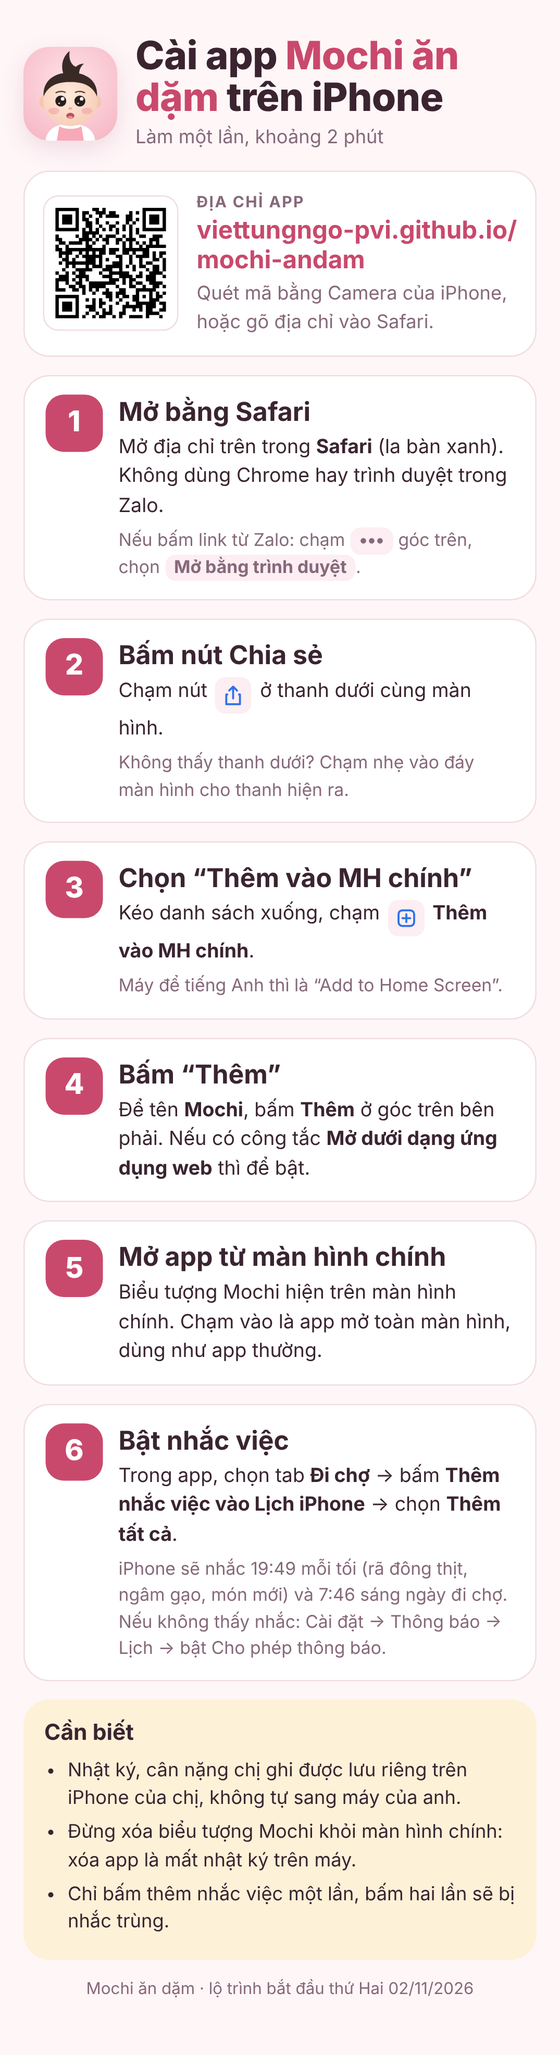
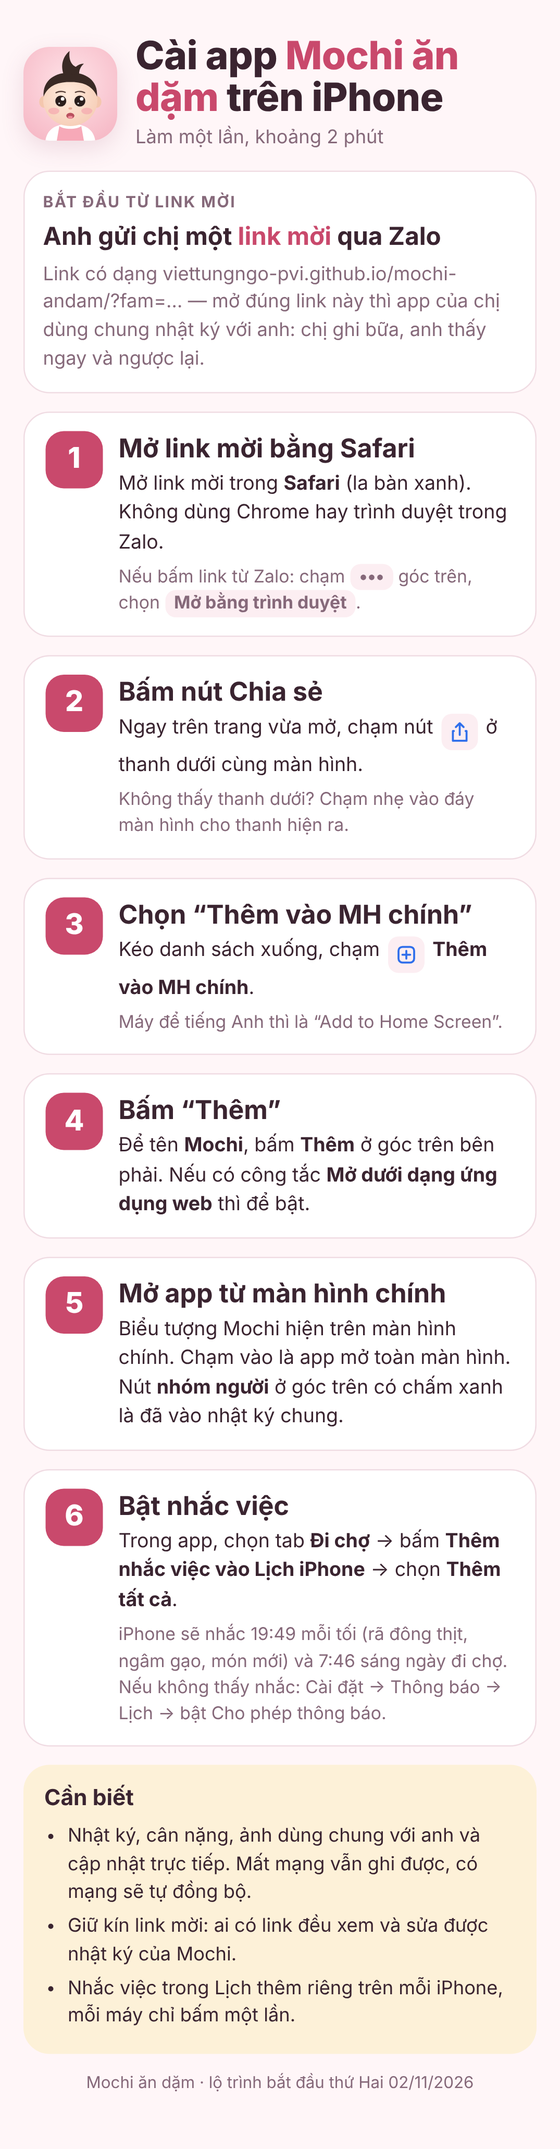
Nhật ký chung giữa hai máy qua Firebase
- Đồng bộ trực tiếp nhật ký, cân nặng, món đã thử, ảnh qua Firestore
- Mã gia đình trong link mời (?fam=), đăng nhập ẩn danh
- Thông báo lỗi rõ ràng khi Firebase chưa cấu hình đủ
- Cập nhật hướng dẫn cài app: mở từ link mời

Claude-Session: https://claude.ai/code/session_01LbCh52MJTEpZHb3o8UUKqT

diff --git a/index.html b/index.html
@@ -248,6 +248,15 @@ details.g .gb{padding:0 16px 16px;font-size:14.5px}
 .toast.show{opacity:1;transform:translate(-50%,0)}
 .sync{font-size:11.5px;color:var(--muted);text-align:center;margin-top:4px}
 
+/* Đồng bộ gia đình */
+.syncbtn{position:relative;width:42px;height:42px;border-radius:14px}
+.syncbtn svg{width:22px;height:22px}
+.sdot{position:absolute;top:6px;right:6px;width:9px;height:9px;border-radius:9px;background:var(--muted);border:2px solid var(--surface)}
+.sdot[data-on="1"]{background:var(--matcha)}
+.invite{display:flex;gap:8px}
+.invite input{flex:1;min-width:0;border:1px solid var(--line);background:var(--surface-2);border-radius:12px;padding:10px 12px;font-size:13px}
+.steps{margin:0;padding-left:20px;font-size:14px}.steps li{margin:5px 0}
+
 /* Tinh chỉnh v2 */
 .hero{background:linear-gradient(165deg,color-mix(in srgb,var(--wc,var(--mochi)) 16%,var(--surface)) 0%,var(--surface) 62%)}
 .hero h3 .of{font-size:15px;font-weight:700;color:var(--muted);letter-spacing:0;margin-left:6px}
@@ -355,10 +364,11 @@ details.g .gb{padding:0 16px 16px;font-size:14.5px}
   <ellipse cx="256" cy="376" rx="22" ry="16" fill="#B9505E"/>
   <ellipse cx="256" cy="384" rx="13" ry="7" fill="#F08C9A"/>
 </svg></button>
-      <div style="min-width:0">
+      <div style="min-width:0;flex:1">
         <h1>Mochi <span>ăn dặm</span></h1>
         <div class="age" id="age"></div>
       </div>
+      <button class="iconbtn syncbtn" id="syncBtn" aria-label="Nhật ký chung của gia đình" hidden><svg viewBox="0 0 24 24"><circle cx="8" cy="9" r="3"/><circle cx="16.5" cy="10" r="2.5"/><path d="M3 19c.6-3 2.7-4.5 5-4.5s4.4 1.5 5 4.5M13.5 18.5c.4-2 1.6-3.2 3-3.2s2.6 1.2 3 3.2"/></svg><span class="sdot" id="syncDot" data-on="0"></span></button>
     </div>
   </header>
   <main id="main" class="view"></main>
@@ -386,6 +396,27 @@ const START = new Date(2026,10,2);  // ngày 1 = tròn 6 tháng
 const PLAN_DAYS = 31;
 const ICS_URL = "https://viettungngo-pvi.github.io/mochi-andam/reminders.ics";
 const IN_CLAUDE = !!(window.claude&&window.claude.use);
+// Đồng bộ gia đình cho bản GitHub Pages (Firebase Firestore). Điền cấu hình từ Firebase console.
+const FIREBASE_CONFIG = {
+  apiKey: "AIzaSyA9KyGO4q5qzkl4R8ijx4J4a3Hd6Sc4eI8",
+  authDomain: "mochi-an-dam.firebaseapp.com",
+  projectId: "mochi-an-dam",
+  storageBucket: "mochi-an-dam.firebasestorage.app",
+  messagingSenderId: "1010543361820",
+  appId: "1:1010543361820:web:275d74ff5605971a3a84d9"
+};
+let FB_ERR = "";
+function fbErrText(e){const c=(e&&e.code)||"";
+  if(c.includes("operation-not-allowed")||c.includes("admin-restricted")) return "Firebase chưa bật đăng nhập Anonymous (Security → Authentication → Sign-in method).";
+  if(c.includes("permission-denied")) return "Luật bảo mật Firestore chưa đúng (Firestore → Rules).";
+  if(c.includes("not-found")||c.includes("failed-precondition")) return "Chưa tạo Firestore Database cho project.";
+  if(c.includes("network")||c.includes("unavailable")) return "Không có mạng, nhật ký vẫn lưu trên máy và sẽ đồng bộ khi có mạng.";
+  return "Lỗi đồng bộ: "+(c||String(e&&e.message||e));}
+const FB_SDK = "https://www.gstatic.com/firebasejs/10.14.1/";
+function famFromUrl(){try{const q=new URLSearchParams(location.search).get("fam");return q&&/^[A-Za-z0-9]{20,64}$/.test(q)?q:null}catch(e){return null}}
+function getFam(){const u=famFromUrl();if(u){try{localStorage.setItem("mochi-fam",u)}catch(e){}return u}try{return localStorage.getItem("mochi-fam")}catch(e){return null}}
+function newFamCode(){const a="ABCDEFGHJKLMNPQRSTUVWXYZabcdefghijkmnopqrstuvwxyz23456789";const r=new Uint32Array(24);crypto.getRandomValues(r);return Array.from(r,x=>a[x%a.length]).join("")}
+function inviteLink(fam){return location.origin+location.pathname+"?fam="+fam}
 const WD = ["CN","T2","T3","T4","T5","T6","T7"];
 
 const FOODS = {
@@ -465,7 +496,7 @@ function blockFor(n){return PLAN.find(b=>n>=b.from&&n<=b.to)}
 const weekColor=w=>`var(--w${Math.min(w,6)})`;
 
 /* ===================== Lưu trữ ===================== */
-const COLS=["meals","weights","shop","weeks","foods","asks","notes"];
+const COLS=["meals","weights","shop","weeks","foods","asks","notes","photos"];
 const CAPS={sample:null,assets:null,downloads:null};
 async function connectCaps(){
   if(!window.claude||!window.claude.use) return;
@@ -474,10 +505,11 @@ async function connectCaps(){
   CAPS.sample=s;CAPS.assets=a;CAPS.downloads=d; render(false);
 }
 const Store={
-  mode:"local", db:null, data:{meals:{},weights:{},shop:{},weeks:{},foods:{},asks:{},notes:{}},
+  mode:"local", db:null, fs:null, fam:null, data:{meals:{},weights:{},shop:{},weeks:{},foods:{},asks:{},notes:{},photos:{}},
   load(){try{const s=localStorage.getItem("mochi-an-dam-v1");if(s){const o=JSON.parse(s);COLS.forEach(c=>{if(o[c])this.data[c]=o[c]})}}catch(e){}},
   cache(){try{localStorage.setItem("mochi-an-dam-v1",JSON.stringify(this.data))}catch(e){}},
   async connect(){
+    if(!IN_CLAUDE){ return this.connectFb(); }
     try{
       if(!window.claude||!window.claude.use) return;
       const db=await window.claude.use("db"); if(!db) return;
@@ -488,16 +520,46 @@ const Store={
       });
     }catch(e){}
   },
+  async connectFb(){
+    const fam=getFam(); if(!FIREBASE_CONFIG||!fam) return;
+    try{
+      for(const f of ["firebase-app-compat.js","firebase-auth-compat.js","firebase-firestore-compat.js"]){
+        if(f==="firebase-app-compat.js"&&window.firebase) continue;
+        await new Promise((res,rej)=>{const s=document.createElement("script");s.src=FB_SDK+f;s.onload=res;s.onerror=rej;document.head.appendChild(s)});
+      }
+      if(!firebase.apps.length) firebase.initializeApp(FIREBASE_CONFIG);
+      const fs=firebase.firestore();
+      try{await fs.enablePersistence({synchronizeTabs:true})}catch(e){}
+      await firebase.auth().signInAnonymously();
+      this.fs=fs; this.fam=fam; this.mode="fb"; setSync();
+      COLS.filter(c=>c!=="asks").forEach(c=>{
+        fs.collection(`families/${fam}/${c}`).onSnapshot(s=>{const m={};s.forEach(d=>{m[d.id]=d.data()});this.data[c]=m;if(c!=="photos")this.cache();render(false)},
+          e=>{console.warn("fs",c,e&&e.code);FB_ERR=fbErrText(e);setSync(FB_ERR)});
+      });
+    }catch(e){console.warn(e);this.mode="local";FB_ERR=fbErrText(e);setSync(FB_ERR)}
+  },
+  async uploadAll(){
+    if(!this.fs) return 0; let n=0;
+    for(const c of COLS){ if(c==="asks"||c==="photos") continue;
+      for(const [id,v] of Object.entries(this.data[c]||{})){ try{await this.fs.collection(`families/${this.fam}/${c}`).doc(id).set(v);n++}catch(e){} } }
+    return n;
+  },
   async set(c,id,obj){
-    this.data[c]={...this.data[c],[id]:obj}; this.cache(); render(false);
+    this.data[c]={...this.data[c],[id]:obj}; if(c!=="photos")this.cache(); render(false);
     if(this.db){try{await this.db.collection(c).doc(id).set(obj)}catch(e){toast("Chưa đồng bộ được, dữ liệu vẫn lưu trên máy này")}}
+    else if(this.fs){try{await this.fs.collection(`families/${this.fam}/${c}`).doc(id).set(obj)}catch(e){FB_ERR=fbErrText(e);toast(FB_ERR)}}
   },
   async del(c,id){
     const m={...this.data[c]}; delete m[id]; this.data[c]=m; this.cache(); render(false);
     if(this.db){try{await this.db.collection(c).doc(id).delete()}catch(e){}}
+    else if(this.fs){try{await this.fs.collection(`families/${this.fam}/${c}`).doc(id).delete()}catch(e){}}
   }
 };
-function setSync(){document.getElementById("sync").textContent=Store.mode==="db"?"Đã đồng bộ: mở trên máy khác vẫn thấy cùng nhật ký":"Đang lưu trên máy này"}
+function setSync(msg){
+  const el=document.getElementById("sync"); if(!el) return;
+  el.textContent=msg||(Store.mode==="db"?"Đã đồng bộ: mở trên máy khác vẫn thấy cùng nhật ký":Store.mode==="fb"?"Nhật ký chung của gia đình · cập nhật trực tiếp":"Đang lưu trên máy này");
+  const dot=document.getElementById("syncDot"); if(dot) dot.dataset.on=(Store.mode==="local"?"0":"1");
+}
 
 /* ===================== Trạng thái món ===================== */
 function foodStatus(id,ref){
@@ -568,10 +630,17 @@ function toast(t){const el=$("#toast");el.textContent=t;el.classList.add("show")
 const ICON_CHECK='<svg viewBox="0 0 24 24"><path d="M5 12.5l4.5 4.5L19 7.5"/></svg>';
 const ICON_MOON='<svg viewBox="0 0 24 24"><path d="M20 14.5A8 8 0 1 1 9.5 4a6.5 6.5 0 0 0 10.5 10.5z"/></svg>';
 const MOODS={love:"Thích lắm",ok:"Ăn được",refuse:"Từ chối",react:"Có phản ứng"};
-const blobUrl=id=>"/_blob/"+id;
+const blobUrl=id=>{if(String(id).startsWith("fb:")){const p=Store.data.photos[id.slice(3)];return p?p.data:""}return "/_blob/"+id};
 function thumbs(ids,sm){if(!ids||!ids.length)return "";return `<div class="thumbs">${ids.map(id=>`<img class="thumb ${sm?"sm":""}" src="${blobUrl(id)}" alt="Ảnh bữa ăn" data-act="zoom" data-v="${id}" loading="lazy" onerror="this.style.visibility='hidden'">`).join("")}</div>`}
 function zoom(id){const d=document.createElement("div");d.className="lightbox";d.innerHTML=`<img src="${blobUrl(id)}" alt="Ảnh phóng to">`;d.addEventListener("click",()=>d.remove());document.body.appendChild(d)}
 function burst(){const r=$("#logo").getBoundingClientRect();for(let i=0;i<7;i++){const s=document.createElement("span");s.className="burst";s.style.left=(r.left+r.width/2-11+(Math.random()*30-15))+"px";s.style.top=(r.top+r.height/2)+"px";s.style.setProperty("--dx",(Math.random()*120-60)+"px");s.style.animationDelay=(i*0.06)+"s";s.innerHTML='<svg viewBox="0 0 24 24"><path d="M12 21s-7.5-4.6-9.5-9.2C1.2 8.6 3.3 5 6.8 5c2 0 3.5 1.1 5.2 3 1.7-1.9 3.2-3 5.2-3 3.5 0 5.6 3.6 4.3 6.8C19.5 16.4 12 21 12 21z"/></svg>';document.body.appendChild(s);setTimeout(()=>s.remove(),1500)}}
+async function compressToDataUrl(file){
+  const url=URL.createObjectURL(file);
+  try{const img=await new Promise((res,rej)=>{const i=new Image();i.onload=()=>res(i);i.onerror=rej;i.src=url});
+    const max=900,k=Math.min(1,max/Math.max(img.width,img.height));const c=document.createElement("canvas");c.width=Math.round(img.width*k);c.height=Math.round(img.height*k);
+    c.getContext("2d").drawImage(img,0,0,c.width,c.height);return c.toDataURL("image/jpeg",0.72);
+  }finally{URL.revokeObjectURL(url)}
+}
 async function compressImage(file){
   const url=URL.createObjectURL(file);
   try{const img=await new Promise((res,rej)=>{const i=new Image();i.onload=()=>res(i);i.onerror=rej;i.src=url});
@@ -912,6 +981,39 @@ function renderAsk(){
   return h;
 }
 
+/* ---------- Nhật ký chung (Firebase) ---------- */
+function openSync(){
+  sheetState={type:"sync"};
+  const fam=Store.fam||getFam();
+  let body;
+  if(!FIREBASE_CONFIG){
+    body=`<p class="muted" style="margin:0">Tính năng đang được cài đặt. Khi xong, nút này sẽ cho anh chị dùng chung một nhật ký.</p>`;
+  } else if(Store.mode==="fb"){
+    body=`<p style="margin:0"><b style="color:var(--matcha)">Đang dùng nhật ký chung.</b> Ai mở app bằng link mời dưới đây sẽ thấy và ghi cùng một nhật ký, cập nhật trực tiếp.</p>
+      <div class="field"><label for="invIn">Link mời (gửi cho vợ/chồng qua Zalo)</label><div class="invite"><input id="invIn" readonly value="${esc(inviteLink(Store.fam))}"><button class="btn" data-sh="copyinv">Sao chép</button></div></div>
+      <ol class="steps"><li>Mở link bằng <b>Safari</b> trên iPhone.</li><li>Bấm Chia sẻ → <b>Thêm vào MH chính</b> ngay trên trang đó, để app mở ra luôn vào nhật ký chung.</li></ol>
+      <p class="small muted" style="margin:0">Giữ kín link này: ai có link đều xem và sửa được nhật ký của Mochi.</p>
+      <button class="btn soft" data-sh="leave">Rời nhật ký chung trên máy này</button>`;
+  } else if(fam){
+    body=FB_ERR?`<div class="alert"><b>Chưa kết nối được.</b> ${esc(FB_ERR)}</div><button class="btn" data-sh="retry">Thử kết nối lại</button>`:`<p class="muted" style="margin:0">Đang kết nối nhật ký chung… Nếu lâu, kiểm tra mạng rồi mở lại app.</p>`;
+  } else {
+    body=`<p style="margin:0">Dùng chung một nhật ký giữa hai máy: một người ghi bữa, người kia thấy ngay.</p>
+      <ol class="steps"><li>Một người (thường là anh) bấm <b>Tạo nhật ký chung</b>. Dữ liệu đang có trên máy này được chuyển lên.</li><li>Gửi link mời cho người kia, họ mở link bằng Safari rồi thêm vào màn hình chính.</li></ol>
+      <button class="btn pink" data-sh="create">Tạo nhật ký chung</button>
+      <p class="small muted" style="margin:0">Đã có link mời? Mở link đó bằng Safari là xong, không cần bấm nút này.</p>`;
+  }
+  openSheet(`<h4>Nhật ký chung của gia đình</h4>${body}<button class="btn soft" data-sh="close">Đóng</button>`);
+}
+async function createFamily(){
+  const code=newFamCode(); try{localStorage.setItem("mochi-fam",code)}catch(e){}
+  try{history.replaceState(null,"",inviteLink(code))}catch(e){}
+  toast("Đang tạo nhật ký chung…");
+  await Store.connectFb();
+  if(Store.mode!=="fb"){toast(FB_ERR||"Chưa kết nối được, kiểm tra mạng rồi thử lại");openSync();return}
+  const n=await Store.uploadAll(); toast(n?`Đã chuyển ${n} mục lên nhật ký chung`:"Đã tạo nhật ký chung");
+  openSync();
+}
+
 /* ===================== Sheet ghi bữa / cân ===================== */
 let sheetState=null;
 function openSheet(html){$("#sheetIn").innerHTML='<div class="grab"></div>'+html;$("#scrim").hidden=false;$("#sheet").hidden=false;requestAnimationFrame(()=>{$("#scrim").classList.add("show");$("#sheet").classList.add("show")})}
@@ -924,7 +1026,7 @@ function openLog(id,i){
 }
 function photoBlock(){
   const s=sheetState;
-  if(!CAPS.assets) return `<div class="field"><label>Ảnh</label><p class="small muted" style="margin:0">Mở app trong Claude (tài khoản của anh) để đính kèm ảnh bữa ăn hoặc ảnh vết mẩn.</p></div>`;
+  if(!CAPS.assets&&Store.mode!=="fb") return `<div class="field"><label>Ảnh</label><p class="small muted" style="margin:0">Bật nhật ký chung (nút đồng bộ ở góc trên) để đính kèm ảnh bữa ăn hoặc ảnh vết mẩn.</p></div>`;
   return `<div class="field"><label>Ảnh bữa ăn hoặc vết mẩn</label><div class="thumbs" id="photoRow">${s.photos.map(id=>`<img class="thumb" src="${blobUrl(id)}" alt="Ảnh đã đính kèm" data-sh="rmphoto" data-v="${id}" title="Chạm để bỏ ảnh">`).join("")}${s.uploading?`<div class="addphoto">Đang tải…</div>`:""}<label class="addphoto" for="photoIn"><span><svg viewBox="0 0 24 24"><path d="M4 8h3l2-2.5h6L17 8h3v11H4z"/><circle cx="12" cy="13" r="3.5"/></svg><br>Thêm</span></label></div><input type="file" id="photoIn" accept="image/*" hidden>${s.photos.length?`<span class="small muted">Chạm vào ảnh để bỏ ra khỏi bữa này.</span>`:""}</div>`;
 }
 function refreshPhotos(){const el=document.getElementById("photoWrap");if(el)el.innerHTML=photoBlock()}
@@ -949,13 +1051,20 @@ $("#scrim").addEventListener("click",closeSheet);
 $("#sheet").addEventListener("change",async e=>{
   if(e.target.id!=="photoIn"||!e.target.files||!e.target.files[0]||!sheetState) return;
   const s=sheetState, file=e.target.files[0]; s.uploading++; refreshPhotos();
-  try{const blob=await compressImage(file);const r=await CAPS.assets.upload(blob,{type:"image/jpeg"});if(sheetState===s)s.photos.push(r.id)}
+  try{
+    if(CAPS.assets){const blob=await compressImage(file);const r=await CAPS.assets.upload(blob,{type:"image/jpeg"});if(sheetState===s)s.photos.push(r.id)}
+    else{const data=await compressToDataUrl(file);if(data.length>900000)throw {code:"too_large"};const pid="p"+Date.now();await Store.set("photos",pid,{data,ts:Date.now()});if(sheetState===s)s.photos.push("fb:"+pid)}
+  }
   catch(err){toast(err&&err.code==="quota_or_state"?"Hết dung lượng lưu ảnh":"Chưa tải được ảnh, thử lại nhé")}
   finally{s.uploading--; if(sheetState===s) refreshPhotos()}
 });
 $("#sheet").addEventListener("click",e=>{
   const b=e.target.closest("[data-sh]"); if(!b) return; const a=b.dataset.sh, s=sheetState;
   if(a==="close"){closeSheet();return}
+  if(a==="create"){createFamily();return}
+  if(a==="retry"){FB_ERR="";closeSheet();location.reload();return}
+  if(a==="copyinv"){const v=$("#invIn").value;(navigator.clipboard?navigator.clipboard.writeText(v):Promise.reject()).then(()=>toast("Đã sao chép link mời")).catch(()=>{$("#invIn").select();toast("Nhấn giữ để sao chép")});return}
+  if(a==="leave"){try{localStorage.removeItem("mochi-fam")}catch(e){}try{history.replaceState(null,"",location.pathname)}catch(e){}closeSheet();toast("Đã rời nhật ký chung, mở lại app để dùng riêng");setTimeout(()=>location.reload(),900);return}
   if(a==="ml"||a==="mlset"){s.ml=Math.max(0,a==="ml"?s.ml+ +b.dataset.v:+b.dataset.v);$("#mlOut").textContent=s.ml+" ml";return}
   if(a==="mood"){s.mood=b.dataset.v;document.querySelectorAll('[data-sh="mood"]').forEach(x=>x.setAttribute("aria-pressed",x.dataset.v===s.mood));$("#reactBox").hidden=s.mood!=="react";return}
   if(a==="rmphoto"){s.photos=s.photos.filter(x=>x!==b.dataset.v);refreshPhotos();return}
@@ -1019,6 +1128,7 @@ $("#main").addEventListener("keydown",e=>{if(e.target.id==="askIn"&&e.key==="Ent
 $("#logo").addEventListener("click",()=>{const l=$("#logo");l.classList.remove("wiggle");void l.offsetWidth;l.classList.add("wiggle")});
 document.addEventListener("keydown",e=>{if(e.key==="Escape"&&sheetState)closeSheet()});
 
+if(!IN_CLAUDE){const sb=$("#syncBtn");sb.hidden=false;sb.addEventListener("click",openSync)}
 Store.load(); setSync(); render(true); Store.connect(); connectCaps();
 </script>
 

diff --git a/huong-dan.html b/huong-dan.html
@@ -90,27 +90,28 @@ h1 span{color:var(--deep)}
     <div><h1>Cài app <span>Mochi ăn dặm</span> trên iPhone</h1><div class="sub">Làm một lần, khoảng 2 phút</div></div>
   </div>
 
-  <div class="addr">
-    <div class="qr" aria-label="Mã QR mở app"><svg width="35mm" height="35mm" version="1.1" viewBox="0 0 35 35" xmlns="http://www.w3.org/2000/svg"><path d="M1,1H2V2H1zM2,1H3V2H2zM3,1H4V2H3zM4,1H5V2H4zM5,1H6V2H5zM6,1H7V2H6zM7,1H8V2H7zM12,1H13V2H12zM13,1H14V2H13zM15,1H16V2H15zM27,1H28V2H27zM28,1H29V2H28zM29,1H30V2H29zM30,1H31V2H30zM31,1H32V2H31zM32,1H33V2H32zM33,1H34V2H33zM1,2H2V3H1zM7,2H8V3H7zM9,2H10V3H9zM10,2H11V3H10zM13,2H14V3H13zM14,2H15V3H14zM15,2H16V3H15zM17,2H18V3H17zM18,2H19V3H18zM23,2H24V3H23zM25,2H26V3H25zM27,2H28V3H27zM33,2H34V3H33zM1,3H2V4H1zM3,3H4V4H3zM4,3H5V4H4zM5,3H6V4H5zM7,3H8V4H7zM9,3H10V4H9zM11,3H12V4H11zM14,3H15V4H14zM16,3H17V4H16zM17,3H18V4H17zM18,3H19V4H18zM19,3H20V4H19zM22,3H23V4H22zM23,3H24V4H23zM27,3H28V4H27zM29,3H30V4H29zM30,3H31V4H30zM31,3H32V4H31zM33,3H34V4H33zM1,4H2V5H1zM3,4H4V5H3zM4,4H5V5H4zM5,4H6V5H5zM7,4H8V5H7zM9,4H10V5H9zM10,4H11V5H10zM13,4H14V5H13zM22,4H23V5H22zM23,4H24V5H23zM25,4H26V5H25zM27,4H28V5H27zM29,4H30V5H29zM30,4H31V5H30zM31,4H32V5H31zM33,4H34V5H33zM1,5H2V6H1zM3,5H4V6H3zM4,5H5V6H4zM5,5H6V6H5zM7,5H8V6H7zM10,5H11V6H10zM11,5H12V6H11zM13,5H14V6H13zM16,5H17V6H16zM19,5H20V6H19zM22,5H23V6H22zM24,5H25V6H24zM27,5H28V6H27zM29,5H30V6H29zM30,5H31V6H30zM31,5H32V6H31zM33,5H34V6H33zM1,6H2V7H1zM7,6H8V7H7zM10,6H11V7H10zM11,6H12V7H11zM14,6H15V7H14zM17,6H18V7H17zM18,6H19V7H18zM21,6H22V7H21zM23,6H24V7H23zM27,6H28V7H27zM33,6H34V7H33zM1,7H2V8H1zM2,7H3V8H2zM3,7H4V8H3zM4,7H5V8H4zM5,7H6V8H5zM6,7H7V8H6zM7,7H8V8H7zM9,7H10V8H9zM11,7H12V8H11zM13,7H14V8H13zM15,7H16V8H15zM17,7H18V8H17zM19,7H20V8H19zM21,7H22V8H21zM23,7H24V8H23zM25,7H26V8H25zM27,7H28V8H27zM28,7H29V8H28zM29,7H30V8H29zM30,7H31V8H30zM31,7H32V8H31zM32,7H33V8H32zM33,7H34V8H33zM9,8H10V9H9zM10,8H11V9H10zM11,8H12V9H11zM12,8H13V9H12zM13,8H14V9H13zM19,8H20V9H19zM23,8H24V9H23zM25,8H26V9H25zM1,9H2V10H1zM7,9H8V10H7zM9,9H10V10H9zM10,9H11V10H10zM12,9H13V10H12zM14,9H15V10H14zM16,9H17V10H16zM17,9H18V10H17zM18,9H19V10H18zM21,9H22V10H21zM23,9H24V10H23zM26,9H27V10H26zM27,9H28V10H27zM30,9H31V10H30zM31,9H32V10H31zM32,9H33V10H32zM1,10H2V11H1zM2,10H3V11H2zM8,10H9V11H8zM9,10H10V11H9zM10,10H11V11H10zM11,10H12V11H11zM13,10H14V11H13zM15,10H16V11H15zM16,10H17V11H16zM19,10H20V11H19zM20,10H21V11H20zM22,10H23V11H22zM23,10H24V11H23zM24,10H25V11H24zM29,10H30V11H29zM30,10H31V11H30zM31,10H32V11H31zM2,11H3V12H2zM3,11H4V12H3zM5,11H6V12H5zM6,11H7V12H6zM7,11H8V12H7zM8,11H9V12H8zM10,11H11V12H10zM12,11H13V12H12zM16,11H17V12H16zM19,11H20V12H19zM21,11H22V12H21zM23,11H24V12H23zM25,11H26V12H25zM27,11H28V12H27zM29,11H30V12H29zM31,11H32V12H31zM1,12H2V13H1zM4,12H5V13H4zM10,12H11V13H10zM11,12H12V13H11zM15,12H16V13H15zM21,12H22V13H21zM23,12H24V13H23zM26,12H27V13H26zM28,12H29V13H28zM29,12H30V13H29zM30,12H31V13H30zM31,12H32V13H31zM32,12H33V13H32zM33,12H34V13H33zM1,13H2V14H1zM2,13H3V14H2zM4,13H5V14H4zM5,13H6V14H5zM6,13H7V14H6zM7,13H8V14H7zM8,13H9V14H8zM9,13H10V14H9zM10,13H11V14H10zM11,13H12V14H11zM12,13H13V14H12zM13,13H14V14H13zM14,13H15V14H14zM15,13H16V14H15zM17,13H18V14H17zM18,13H19V14H18zM19,13H20V14H19zM21,13H22V14H21zM22,13H23V14H22zM23,13H24V14H23zM24,13H25V14H24zM25,13H26V14H25zM26,13H27V14H26zM27,13H28V14H27zM28,13H29V14H28zM2,14H3V15H2zM3,14H4V15H3zM4,14H5V15H4zM5,14H6V15H5zM8,14H9V15H8zM10,14H11V15H10zM12,14H13V15H12zM14,14H15V15H14zM15,14H16V15H15zM17,14H18V15H17zM18,14H19V15H18zM21,14H22V15H21zM22,14H23V15H22zM24,14H25V15H24zM27,14H28V15H27zM28,14H29V15H28zM30,14H31V15H30zM32,14H33V15H32zM33,14H34V15H33zM2,15H3V16H2zM4,15H5V16H4zM7,15H8V16H7zM9,15H10V16H9zM10,15H11V16H10zM11,15H12V16H11zM12,15H13V16H12zM13,15H14V16H13zM14,15H15V16H14zM19,15H20V16H19zM20,15H21V16H20zM23,15H24V16H23zM25,15H26V16H25zM26,15H27V16H26zM27,15H28V16H27zM28,15H29V16H28zM30,15H31V16H30zM32,15H33V16H32zM3,16H4V17H3zM4,16H5V17H4zM6,16H7V17H6zM10,16H11V17H10zM11,16H12V17H11zM12,16H13V17H12zM14,16H15V17H14zM16,16H17V17H16zM20,16H21V17H20zM23,16H24V17H23zM26,16H27V17H26zM30,16H31V17H30zM31,16H32V17H31zM33,16H34V17H33zM2,17H3V18H2zM4,17H5V18H4zM5,17H6V18H5zM6,17H7V18H6zM7,17H8V18H7zM8,17H9V18H8zM9,17H10V18H9zM10,17H11V18H10zM11,17H12V18H11zM12,17H13V18H12zM14,17H15V18H14zM18,17H19V18H18zM19,17H20V18H19zM20,17H21V18H20zM23,17H24V18H23zM26,17H27V18H26zM28,17H29V18H28zM29,17H30V18H29zM33,17H34V18H33zM4,18H5V19H4zM6,18H7V19H6zM10,18H11V19H10zM12,18H13V19H12zM13,18H14V19H13zM14,18H15V19H14zM16,18H17V19H16zM17,18H18V19H17zM18,18H19V19H18zM19,18H20V19H19zM20,18H21V19H20zM22,18H23V19H22zM24,18H25V19H24zM26,18H27V19H26zM27,18H28V19H27zM30,18H31V19H30zM31,18H32V19H31zM33,18H34V19H33zM3,19H4V20H3zM7,19H8V20H7zM8,19H9V20H8zM9,19H10V20H9zM10,19H11V20H10zM11,19H12V20H11zM15,19H16V20H15zM16,19H17V20H16zM17,19H18V20H17zM20,19H21V20H20zM24,19H25V20H24zM28,19H29V20H28zM30,19H31V20H30zM31,19H32V20H31zM33,19H34V20H33zM1,20H2V21H1zM4,20H5V21H4zM6,20H7V21H6zM8,20H9V21H8zM9,20H10V21H9zM14,20H15V21H14zM17,20H18V21H17zM18,20H19V21H18zM19,20H20V21H19zM20,20H21V21H20zM21,20H22V21H21zM22,20H23V21H22zM26,20H27V21H26zM29,20H30V21H29zM30,20H31V21H30zM31,20H32V21H31zM32,20H33V21H32zM2,21H3V22H2zM3,21H4V22H3zM4,21H5V22H4zM7,21H8V22H7zM8,21H9V22H8zM9,21H10V22H9zM10,21H11V22H10zM15,21H16V22H15zM16,21H17V22H16zM17,21H18V22H17zM20,21H21V22H20zM21,21H22V22H21zM22,21H23V22H22zM23,21H24V22H23zM25,21H26V22H25zM26,21H27V22H26zM28,21H29V22H28zM29,21H30V22H29zM30,21H31V22H30zM33,21H34V22H33zM1,22H2V23H1zM2,22H3V23H2zM3,22H4V23H3zM4,22H5V23H4zM6,22H7V23H6zM8,22H9V23H8zM10,22H11V23H10zM17,22H18V23H17zM18,22H19V23H18zM19,22H20V23H19zM21,22H22V23H21zM23,22H24V23H23zM24,22H25V23H24zM28,22H29V23H28zM29,22H30V23H29zM30,22H31V23H30zM1,23H2V24H1zM4,23H5V24H4zM7,23H8V24H7zM8,23H9V24H8zM11,23H12V24H11zM12,23H13V24H12zM13,23H14V24H13zM14,23H15V24H14zM15,23H16V24H15zM16,23H17V24H16zM17,23H18V24H17zM18,23H19V24H18zM21,23H22V24H21zM23,23H24V24H23zM25,23H26V24H25zM26,23H27V24H26zM29,23H30V24H29zM30,23H31V24H30zM31,23H32V24H31zM32,23H33V24H32zM1,24H2V25H1zM5,24H6V25H5zM6,24H7V25H6zM8,24H9V25H8zM9,24H10V25H9zM11,24H12V25H11zM12,24H13V25H12zM13,24H14V25H13zM14,24H15V25H14zM15,24H16V25H15zM19,24H20V25H19zM23,24H24V25H23zM24,24H25V25H24zM27,24H28V25H27zM30,24H31V25H30zM31,24H32V25H31zM33,24H34V25H33zM1,25H2V26H1zM2,25H3V26H2zM3,25H4V26H3zM6,25H7V26H6zM7,25H8V26H7zM9,25H10V26H9zM11,25H12V26H11zM13,25H14V26H13zM16,25H17V26H16zM20,25H21V26H20zM21,25H22V26H21zM25,25H26V26H25zM26,25H27V26H26zM27,25H28V26H27zM28,25H29V26H28zM29,25H30V26H29zM30,25H31V26H30zM9,26H10V27H9zM12,26H13V27H12zM15,26H16V27H15zM16,26H17V27H16zM17,26H18V27H17zM19,26H20V27H19zM20,26H21V27H20zM21,26H22V27H21zM25,26H26V27H25zM29,26H30V27H29zM31,26H32V27H31zM33,26H34V27H33zM1,27H2V28H1zM2,27H3V28H2zM3,27H4V28H3zM4,27H5V28H4zM5,27H6V28H5zM6,27H7V28H6zM7,27H8V28H7zM16,27H17V28H16zM17,27H18V28H17zM19,27H20V28H19zM21,27H22V28H21zM22,27H23V28H22zM24,27H25V28H24zM25,27H26V28H25zM27,27H28V28H27zM29,27H30V28H29zM31,27H32V28H31zM32,27H33V28H32zM1,28H2V29H1zM7,28H8V29H7zM10,28H11V29H10zM12,28H13V29H12zM14,28H15V29H14zM17,28H18V29H17zM20,28H21V29H20zM24,28H25V29H24zM25,28H26V29H25zM29,28H30V29H29zM30,28H31V29H30zM31,28H32V29H31zM1,29H2V30H1zM3,29H4V30H3zM4,29H5V30H4zM5,29H6V30H5zM7,29H8V30H7zM12,29H13V30H12zM14,29H15V30H14zM15,29H16V30H15zM19,29H20V30H19zM22,29H23V30H22zM25,29H26V30H25zM26,29H27V30H26zM27,29H28V30H27zM28,29H29V30H28zM29,29H30V30H29zM30,29H31V30H30zM32,29H33V30H32zM33,29H34V30H33zM1,30H2V31H1zM3,30H4V31H3zM4,30H5V31H4zM5,30H6V31H5zM7,30H8V31H7zM10,30H11V31H10zM11,30H12V31H11zM12,30H13V31H12zM14,30H15V31H14zM17,30H18V31H17zM21,30H22V31H21zM22,30H23V31H22zM23,30H24V31H23zM24,30H25V31H24zM25,30H26V31H25zM26,30H27V31H26zM28,30H29V31H28zM29,30H30V31H29zM30,30H31V31H30zM33,30H34V31H33zM1,31H2V32H1zM3,31H4V32H3zM4,31H5V32H4zM5,31H6V32H5zM7,31H8V32H7zM11,31H12V32H11zM12,31H13V32H12zM15,31H16V32H15zM17,31H18V32H17zM21,31H22V32H21zM24,31H25V32H24zM26,31H27V32H26zM28,31H29V32H28zM29,31H30V32H29zM32,31H33V32H32zM33,31H34V32H33zM1,32H2V33H1zM7,32H8V33H7zM10,32H11V33H10zM13,32H14V33H13zM15,32H16V33H15zM16,32H17V33H16zM17,32H18V33H17zM20,32H21V33H20zM21,32H22V33H21zM28,32H29V33H28zM29,32H30V33H29zM30,32H31V33H30zM31,32H32V33H31zM1,33H2V34H1zM2,33H3V34H2zM3,33H4V34H3zM4,33H5V34H4zM5,33H6V34H5zM6,33H7V34H6zM7,33H8V34H7zM9,33H10V34H9zM12,33H13V34H12zM14,33H15V34H14zM15,33H16V34H15zM18,33H19V34H18zM20,33H21V34H20zM23,33H24V34H23zM24,33H25V34H24zM25,33H26V34H25zM26,33H27V34H26zM28,33H29V34H28zM32,33H33V34H32z" id="qr-path" fill="#000000" fill-opacity="1" fill-rule="nonzero" stroke="none"/></svg></div>
-    <div style="min-width:0"><div class="k">Địa chỉ app</div><div class="u">viettungngo-pvi.github.io/mochi-andam</div><div class="sub" style="margin:0">Quét mã bằng Camera của iPhone, hoặc gõ địa chỉ vào Safari.</div></div>
-  </div>
+  <div class="addr" style="flex-direction:column;align-items:flex-start;gap:6px">
+    <div class="k">Bắt đầu từ link mời</div>
+    <div style="font-family:var(--f-d);font-weight:700;font-size:19px;line-height:1.25">Anh gửi chị một <span style="color:var(--deep)">link mời</span> qua Zalo</div>
+    <div class="sub" style="margin:0">Link có dạng viettungngo-pvi.github.io/mochi-andam/?fam=… — mở đúng link này thì app của chị dùng chung nhật ký với anh: chị ghi bữa, anh thấy ngay và ngược lại.</div>
+</div>
 
-  <div class="step"><div class="n">1</div><div><h2>Mở bằng Safari</h2><p>Mở địa chỉ trên trong <b>Safari</b> (la bàn xanh). Không dùng Chrome hay trình duyệt trong Zalo.</p><div class="tip">Nếu bấm link từ Zalo: chạm <span class="pill">•••</span> góc trên, chọn <span class="pill">Mở bằng trình duyệt</span>.</div></div></div>
+  <div class="step"><div class="n">1</div><div><h2>Mở link mời bằng Safari</h2><p>Mở link mời trong <b>Safari</b> (la bàn xanh). Không dùng Chrome hay trình duyệt trong Zalo.</p><div class="tip">Nếu bấm link từ Zalo: chạm <span class="pill">•••</span> góc trên, chọn <span class="pill">Mở bằng trình duyệt</span>.</div></div></div>
 
-  <div class="step"><div class="n">2</div><div><h2>Bấm nút Chia sẻ</h2><p>Chạm nút <span class="ico"><svg viewBox="0 0 24 24"><path d="M12 15V3M8 7l4-4 4 4"/><path d="M6 11H5v10h14V11h-1"/></svg></span> ở thanh dưới cùng màn hình.</p><div class="tip">Không thấy thanh dưới? Chạm nhẹ vào đáy màn hình cho thanh hiện ra.</div></div></div>
+  <div class="step"><div class="n">2</div><div><h2>Bấm nút Chia sẻ</h2><p>Ngay trên trang vừa mở, chạm nút <span class="ico"><svg viewBox="0 0 24 24"><path d="M12 15V3M8 7l4-4 4 4"/><path d="M6 11H5v10h14V11h-1"/></svg></span> ở thanh dưới cùng màn hình.</p><div class="tip">Không thấy thanh dưới? Chạm nhẹ vào đáy màn hình cho thanh hiện ra.</div></div></div>
 
   <div class="step"><div class="n">3</div><div><h2>Chọn “Thêm vào MH chính”</h2><p>Kéo danh sách xuống, chạm <span class="ico"><svg viewBox="0 0 24 24"><rect x="4" y="4" width="16" height="16" rx="4"/><path d="M12 8v8M8 12h8"/></svg></span> <b>Thêm vào MH chính</b>.</p><div class="tip">Máy để tiếng Anh thì là “Add to Home Screen”.</div></div></div>
 
   <div class="step"><div class="n">4</div><div><h2>Bấm “Thêm”</h2><p>Để tên <b>Mochi</b>, bấm <b>Thêm</b> ở góc trên bên phải. Nếu có công tắc <b>Mở dưới dạng ứng dụng web</b> thì để bật.</p></div></div>
 
-  <div class="step"><div class="n">5</div><div><h2>Mở app từ màn hình chính</h2><p>Biểu tượng Mochi hiện trên màn hình chính. Chạm vào là app mở toàn màn hình, dùng như app thường.</p></div></div>
+  <div class="step"><div class="n">5</div><div><h2>Mở app từ màn hình chính</h2><p>Biểu tượng Mochi hiện trên màn hình chính. Chạm vào là app mở toàn màn hình. Nút <b>nhóm người</b> ở góc trên có chấm xanh là đã vào nhật ký chung.</p></div></div>
 
   <div class="step"><div class="n">6</div><div><h2>Bật nhắc việc</h2><p>Trong app, chọn tab <b>Đi chợ</b> → bấm <b>Thêm nhắc việc vào Lịch iPhone</b> → chọn <b>Thêm tất cả</b>.</p><div class="tip">iPhone sẽ nhắc 19:49 mỗi tối (rã đông thịt, ngâm gạo, món mới) và 7:46 sáng ngày đi chợ. Nếu không thấy nhắc: Cài đặt → Thông báo → Lịch → bật Cho phép thông báo.</div></div></div>
 
   <div class="note"><b>Cần biết</b><ul>
-    <li>Nhật ký, cân nặng chị ghi được lưu riêng trên iPhone của chị, không tự sang máy của anh.</li>
-    <li>Đừng xóa biểu tượng Mochi khỏi màn hình chính: xóa app là mất nhật ký trên máy.</li>
-    <li>Chỉ bấm thêm nhắc việc một lần, bấm hai lần sẽ bị nhắc trùng.</li>
+    <li>Nhật ký, cân nặng, ảnh dùng chung với anh và cập nhật trực tiếp. Mất mạng vẫn ghi được, có mạng sẽ tự đồng bộ.</li>
+    <li>Giữ kín link mời: ai có link đều xem và sửa được nhật ký của Mochi.</li>
+    <li>Nhắc việc trong Lịch thêm riêng trên mỗi iPhone, mỗi máy chỉ bấm một lần.</li>
   </ul></div>
 
   <div class="foot">Mochi ăn dặm · lộ trình bắt đầu thứ Hai 02/11/2026</div>

diff --git a/README.md b/README.md
@@ -33,7 +33,7 @@ Xem [hướng dẫn cài app](huong-dan.html) (bản ảnh: [`anh/huong-dan-cai-
 
 **Trong Claude (đầy đủ tính năng).** Bản chính chạy dưới dạng artifact trên claude.ai: nhật ký đồng bộ giữa các máy, có hỏi nhanh, đính kèm ảnh và lưu báo cáo. 
 
-**Mở trực tiếp file `index.html`** (hoặc qua GitHub Pages). App vẫn chạy phần lịch, thực đơn, đi chợ, nhật ký và cân nặng, nhưng dữ liệu chỉ lưu trên trình duyệt của máy đó; hỏi nhanh, ảnh và lưu báo cáo thành file chỉ có khi mở trong Claude. Khi bật GitHub Pages và "Thêm vào Màn hình chính" trên iPhone, app dùng logo Mochi làm icon.
+**Qua GitHub Pages.** App chạy đầy đủ lịch, thực đơn, đi chợ, nhật ký, cân nặng, ảnh và báo cáo (lưu ảnh bằng cách nhấn giữ). Bấm nút *Nhật ký chung* ở góc trên → *Tạo nhật ký chung* để dùng chung một nhật ký giữa nhiều máy qua Firebase Firestore, cập nhật trực tiếp; gửi link mời (`?fam=…`) cho người còn lại. Hỏi nhanh chỉ có trong bản Claude. Khi bật GitHub Pages và "Thêm vào Màn hình chính" trên iPhone, app dùng logo Mochi làm icon.
 
 Bật GitHub Pages: Settings → Pages → Source: *Deploy from a branch* → Branch: `main` / `(root)`.
 
